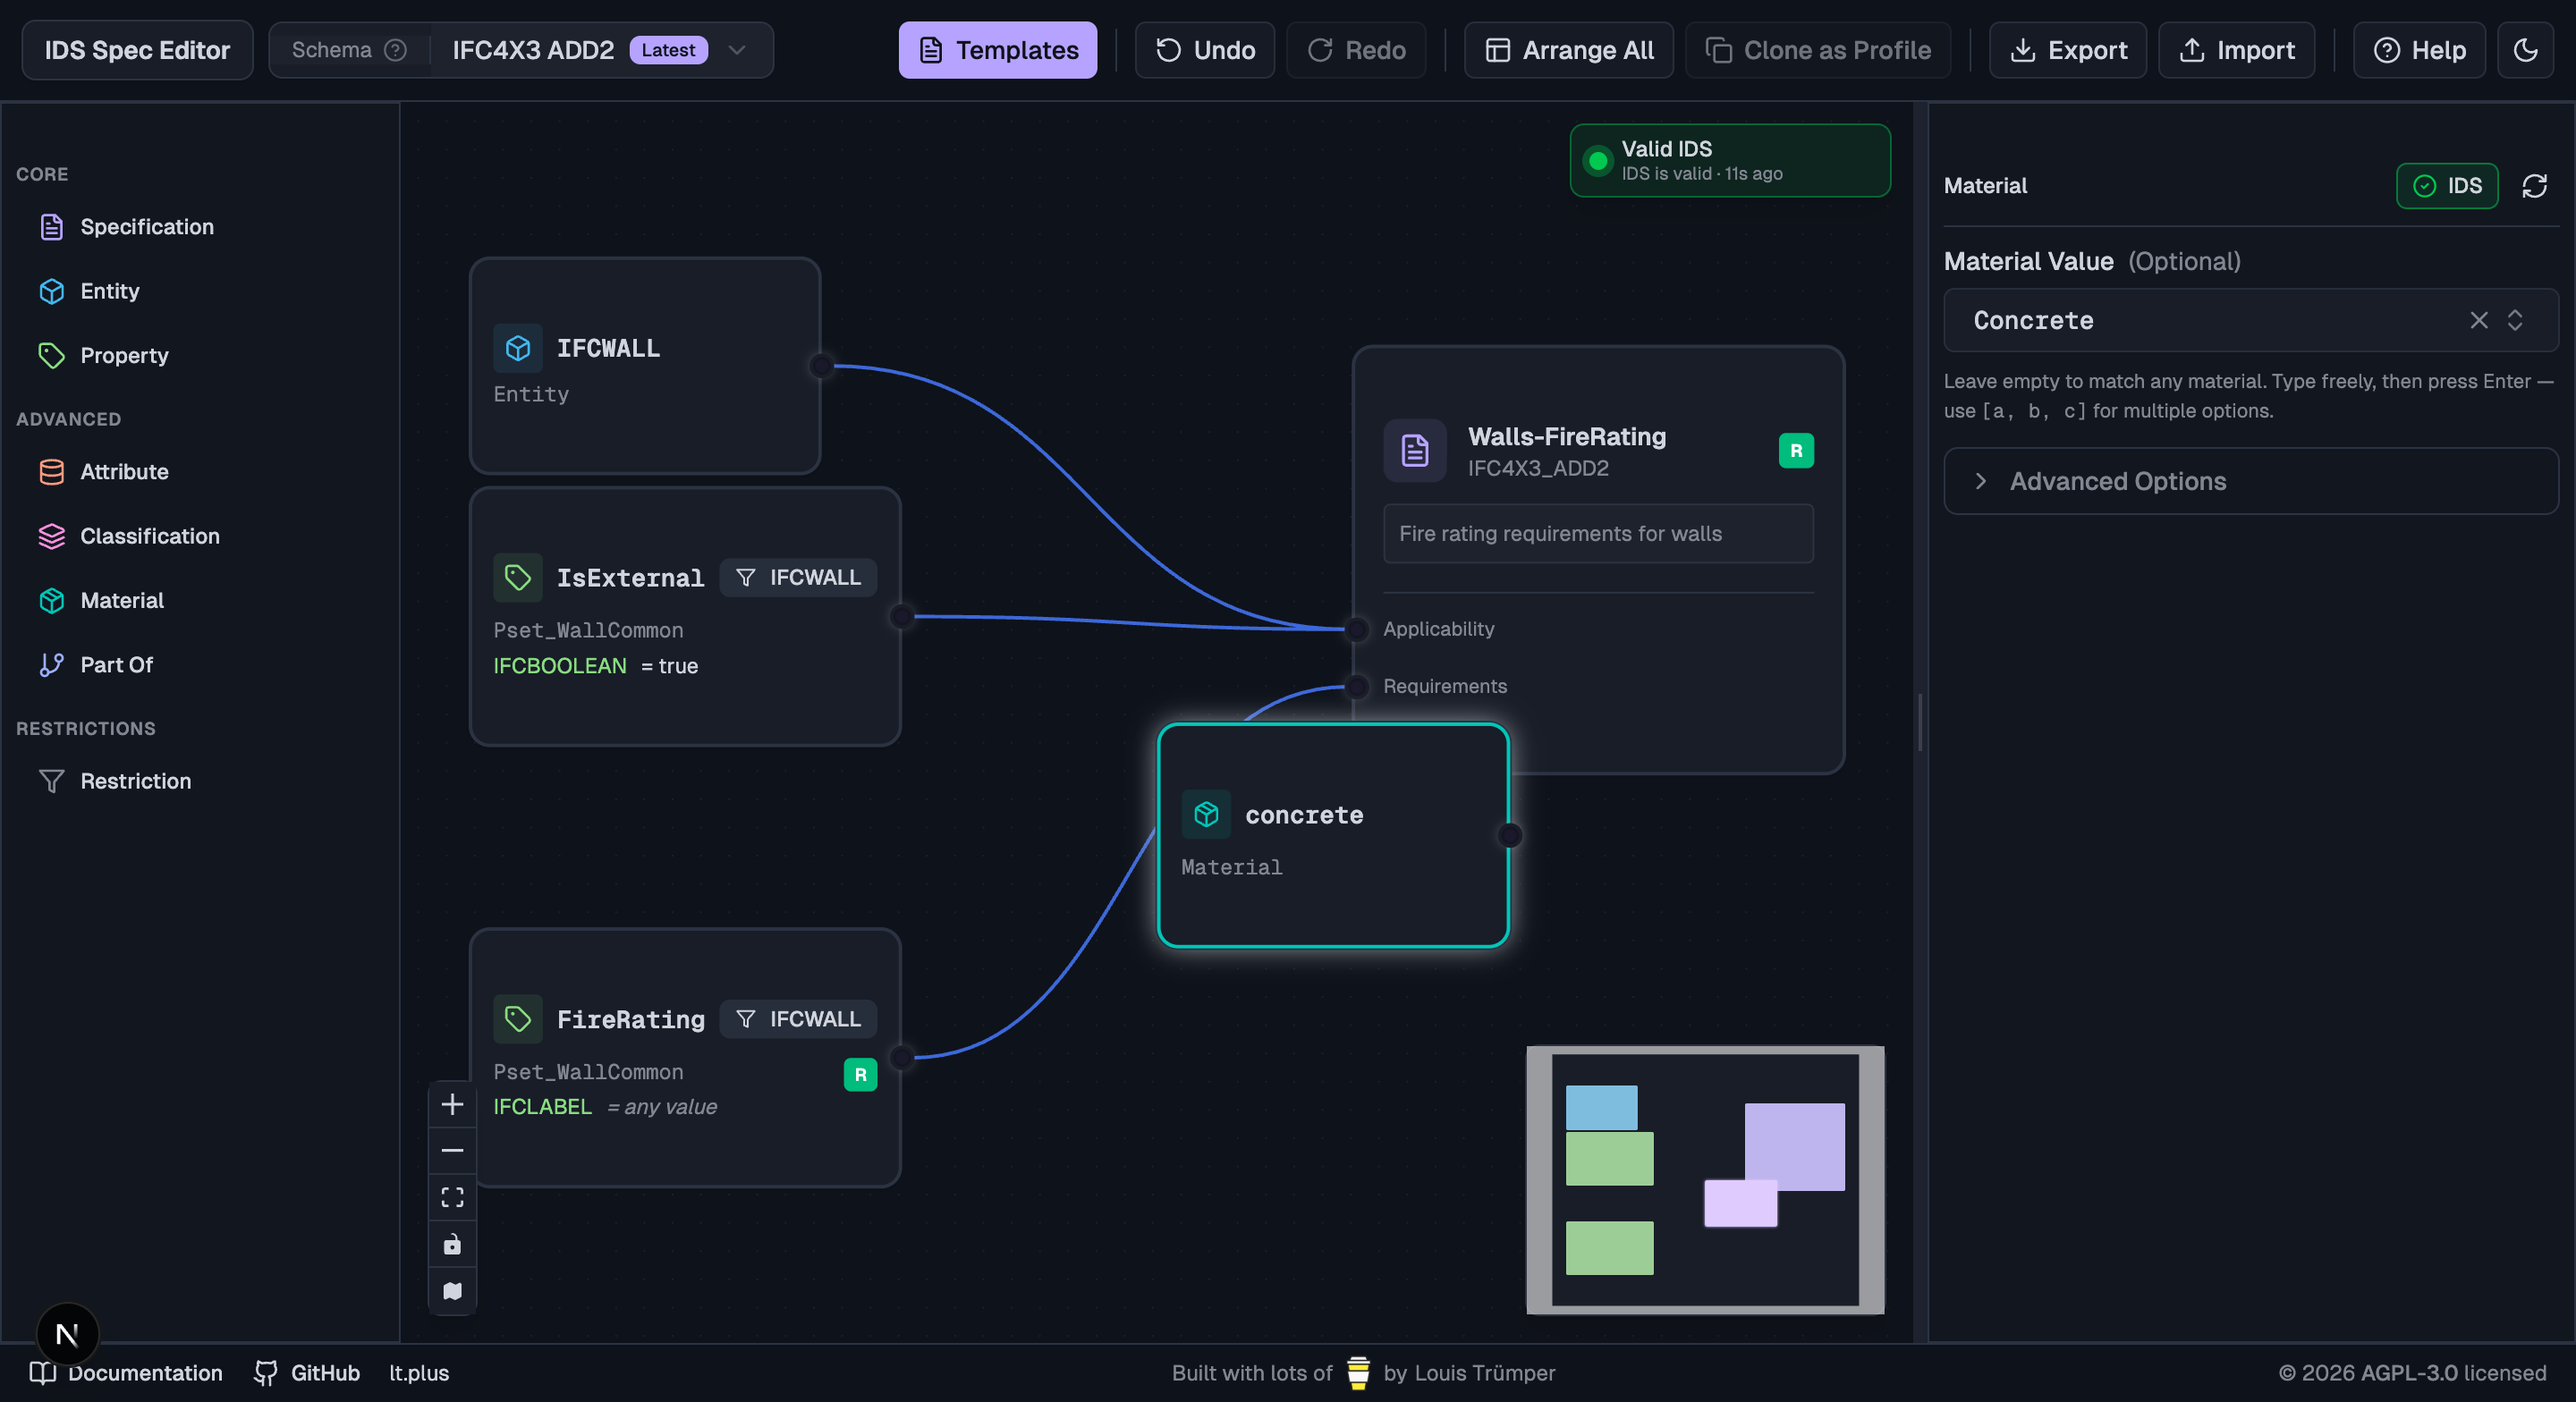
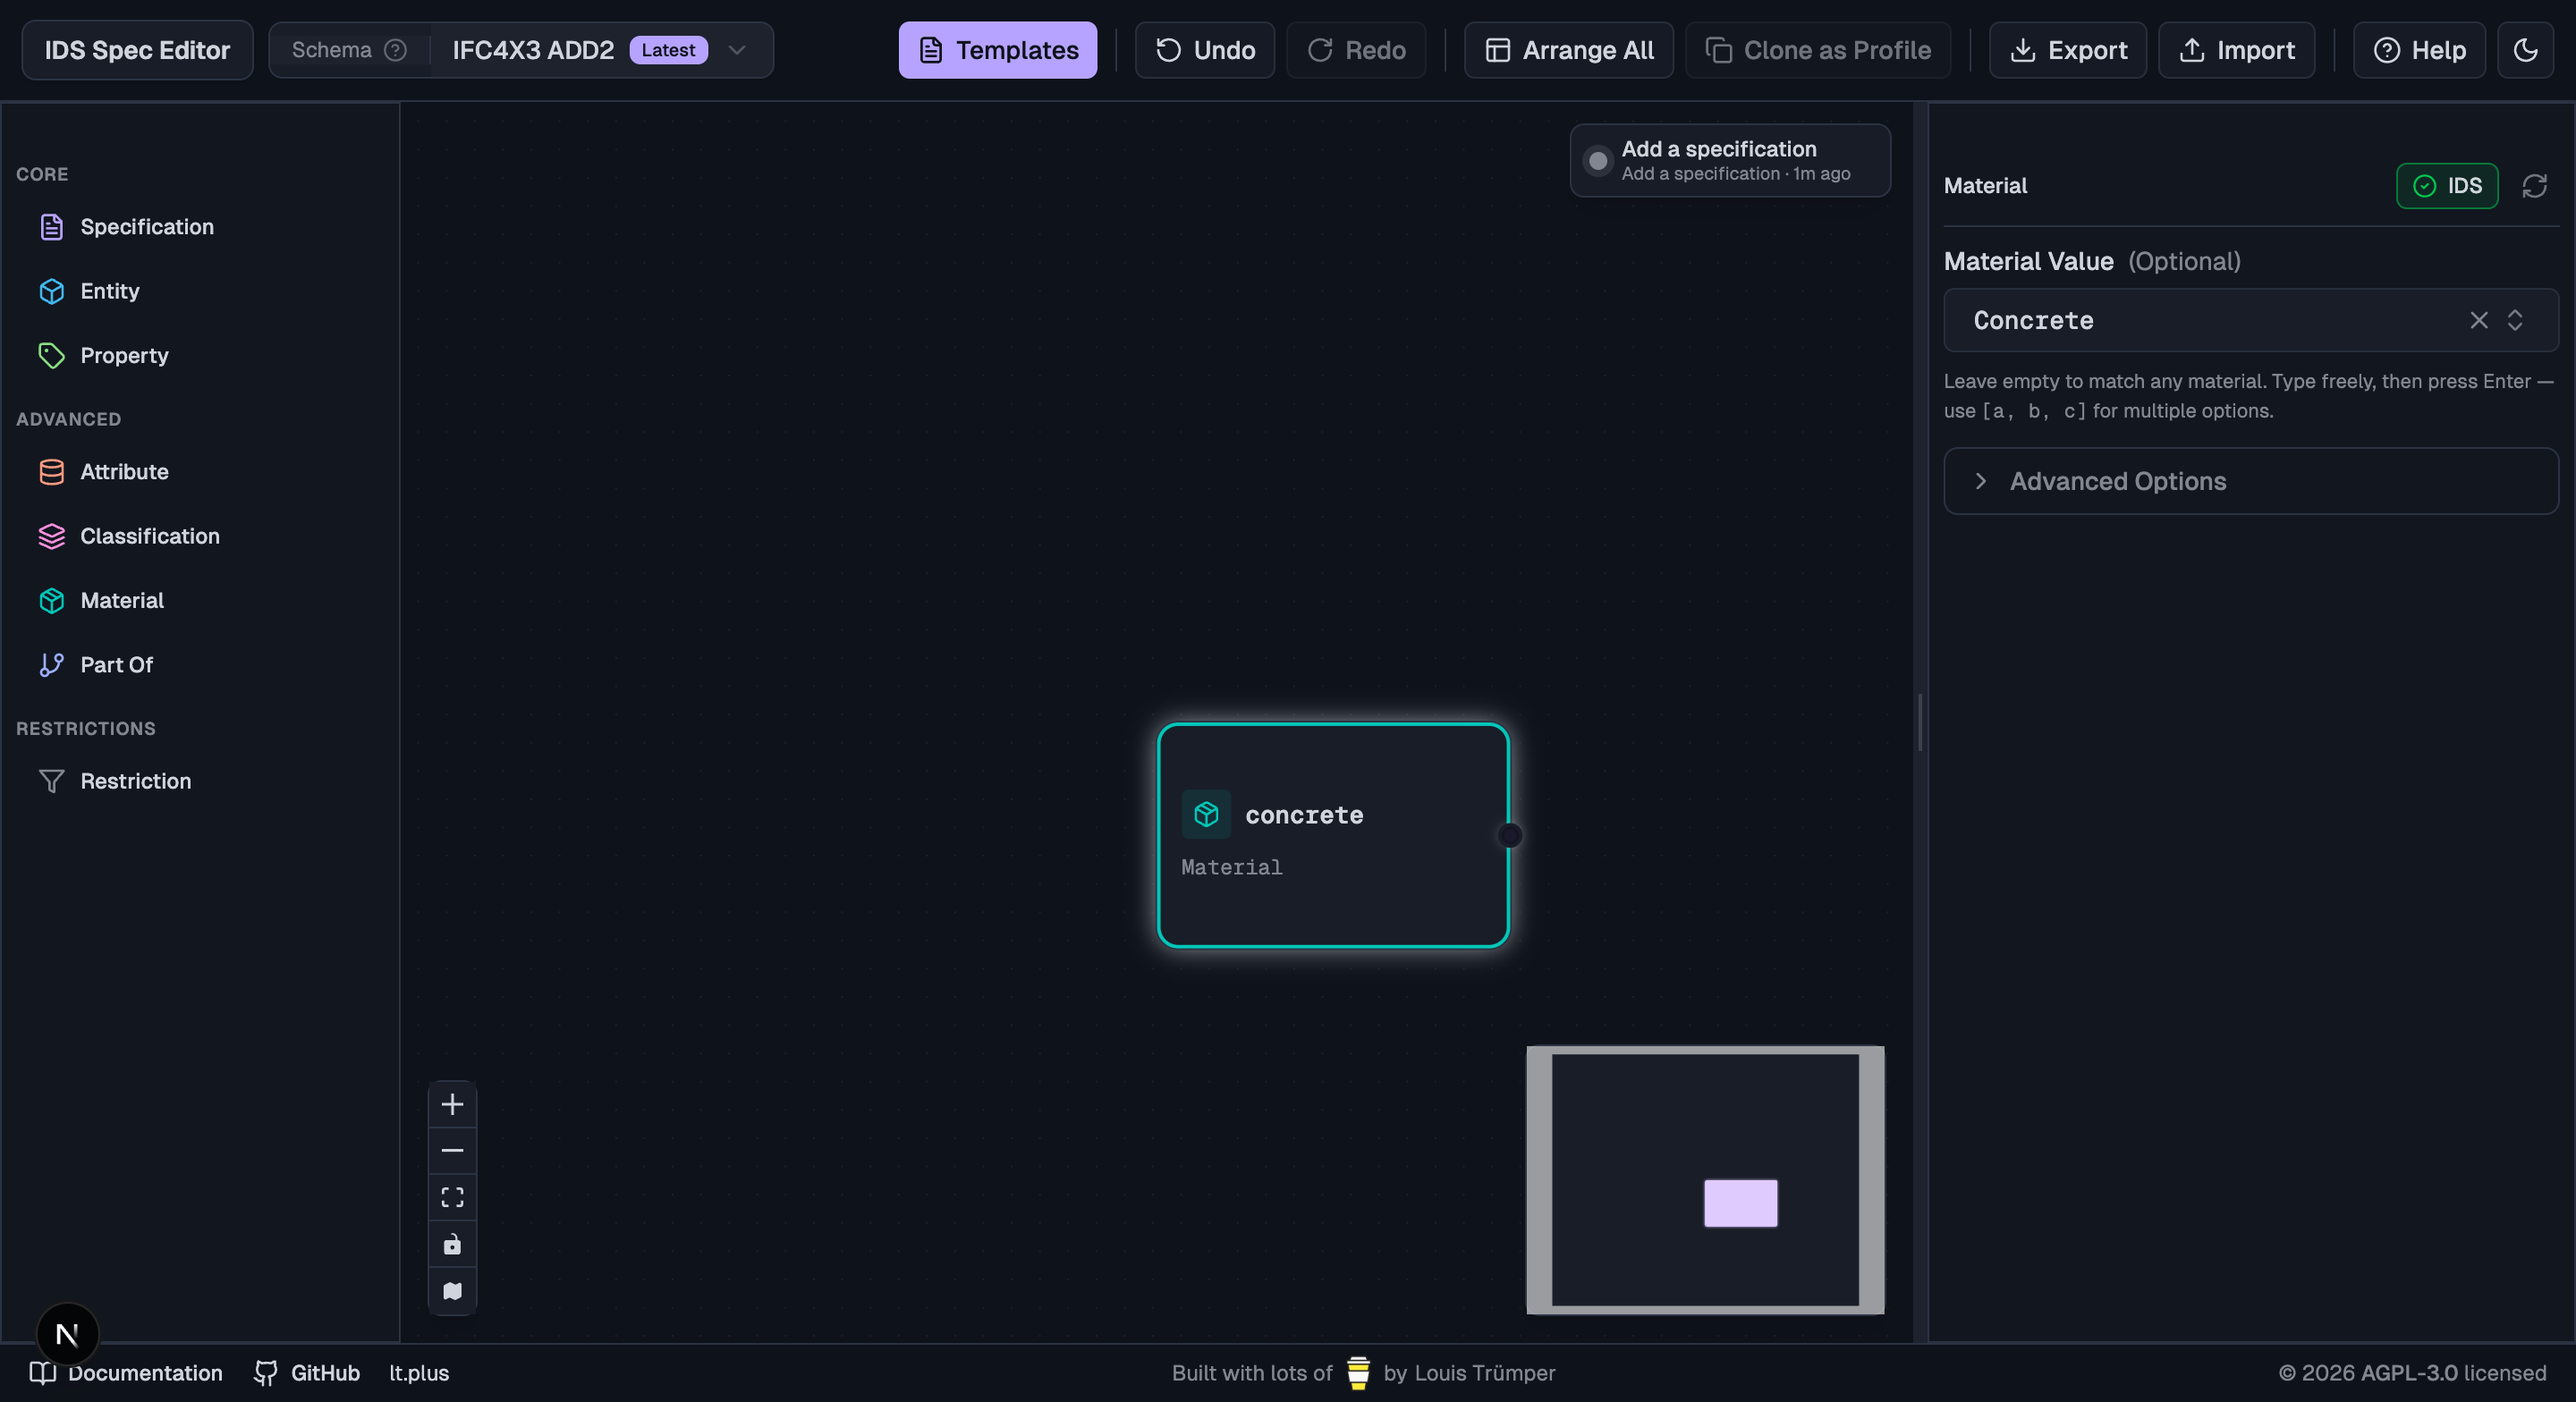
Refresh docs screenshots with isolated scenes; mention classification any-system
- Each "Any …" screenshot now shows only the relevant facet node(s)
  rather than the full default-canvas IFCWALL/IsExternal scene. The
  overview deliberately keeps one concrete-value Material alongside the
  three wildcard facets so the contrast is visible.
- Adds the classification system wildcard to match-any-value.md: clearing
  the system now means "any classification (any system)" and emits a
  pattern restriction (`.+`) on <system>. Adds a new classification
  inspector screenshot.

diff --git a/ids-docs/match-any-value.md b/ids-docs/match-any-value.md
@@ -1,33 +1,38 @@
-A lot of real IDS checks aren't "this property must equal *X*" — they're "this element must **have** this property at all, whatever the value." The IDS schema supports both: every value-bearing facet (`property`, `attribute`, `classification`, `material`) makes the `<value>` element **optional**, and an omitted `<value>` is a wildcard.
+A lot of real IDS checks aren't "this property must equal *X*" — they're "this element must **have** this property at all, whatever the value." The IDS schema supports both: every value-bearing facet (`property`, `attribute`, `classification`, `material`) makes the `<value>` element **optional**, and the classification's `<system>` element accepts a pattern restriction. An omitted or wildcarded value is a match-anything check.
 
-In the editor, this is just **leave the value field empty** — the canvas and inspector make the wildcard state obvious so you don't have to wonder whether the field is empty by accident.
+In the editor, this is just **leave the value field empty**. The canvas and inspector make the wildcard state obvious — italic *"Any …"* labels and a clear `×` affordance in the input — so you can tell wildcard from in-progress at a glance.
 
 ## The pattern, four ways
 
-The "Any" hint shows up across all four value-bearing facet nodes:
+Each value-bearing facet renders its empty-value state slightly differently — but always italicised and muted, with no concrete value present:
 
-![Material, classification, attribute, and property facets all showing the wildcard state on the canvas](/docs/screenshots/18-any-facets-overview.png)
+![Four facets on one canvas — three in their "Any" state, one Material showing a concrete "concrete" value for contrast](/docs/screenshots/18-any-facets-overview.png)
 
-| Facet | Empty-value display | Maps to IDS XML |
+| Facet | When the value is empty | Maps to IDS XML |
 |---|---|---|
-| **Material** | Node title is italic *"Any material"* | `<material/>` (no `<value>`) |
-| **Classification** | Below the system name: *"Any code"* | `<classification><system>…</system></classification>` |
-| **Attribute** | Below the attribute name: *"Any value"* | `<attribute><name>…</name></attribute>` |
-| **Property** | After the data type: *"= any value"* | `<property><propertySet>…</propertySet><baseName>…</baseName></property>` |
+| **Material** | Node title becomes italic *"Any material"* | `<material/>` (no `<value>`) |
+| **Classification** (value only) | *"Any code"* under the system name | `<classification><system>…</system></classification>` |
+| **Classification** (system + value) | Node title becomes italic *"Any classification"* | `<classification><system><xs:restriction base="xs:string"><xs:pattern value=".+"/></xs:restriction></system></classification>` |
+| **Attribute** | *"Any value"* under the attribute name | `<attribute><name>…</name></attribute>` |
+| **Property** | *"= any value"* after the data type | `<property><propertySet>…</propertySet><baseName>…</baseName></property>` |
 
-If a Restriction node is connected to the facet, the editor shows *"restricted"* instead of *"Any …"* — because the facet still constrains the value, just via the restriction node rather than a fixed value.
+If a Restriction node is connected to the facet, the editor shows *"restricted"* instead of *"Any …"* — the facet is still constrained, just via the restriction node rather than a fixed value.
 
 ## How to leave a value empty
 
-Three of the four facets use a plain text input — you just clear it. **Material** uses a searchable dropdown, so it has an explicit `×` clear button inside the trigger (and `Backspace` / `Delete` while the trigger is focused does the same thing):
+Property, attribute, and classification-code use plain text inputs — clear them with `Backspace`. **Material** and the **classification system** use a searchable dropdown, so they have an explicit `×` clear button inside the trigger (`Backspace` / `Delete` on the focused trigger does the same thing):
 
 ![Material inspector with the X clear button visible inside the value selector](/docs/screenshots/13-material-inspector-clearable.png)
 
-After clearing, the node header switches to italic *"Any material"* and the inspector's placeholder reads *"Any material (leave empty) — or pick / type a name"*:
+After clearing, the node title switches to italic *"Any material"* and the inspector's placeholder reads *"Any material (leave empty) — or pick / type a name"*:
 
 ![Material node titled "Any material" in italics after clearing](/docs/screenshots/14-material-node-any.png)
 
-The other three inspectors are the same pattern, no clear button needed:
+Classification works the same way: clear the system to mean "any classification (any system)". When emitted, the editor writes an XSD pattern restriction (`.+`) on `<system>` to make "any non-empty string" explicit — the IDS schema requires `<system>` to be present, so an empty simpleValue would semantically mean "match the empty string" rather than "any system".
+
+![Classification inspector — Classification System cleared, helper line: "Leave empty to match any classification (any system)"](/docs/screenshots/17c-classification-inspector-empty.png)
+
+Property and attribute use a plain text input — the helper line tells you the leave-empty trick:
 
 ![Property inspector — empty Value field with the "Leave empty to match any value" helper line](/docs/screenshots/15-property-inspector-empty.png)
 
@@ -35,6 +40,7 @@ The other three inspectors are the same pattern, no clear button needed:
 
 - **Applicability**: "applies to anything that has a material assigned" (regardless of which one). Useful when you care about *whether* the model carries a piece of information, not the specific value.
 - **Requirements**: combined with cardinality, you can express "this property must be present" (`cardinality="required"`) or "must not be present" (`cardinality="prohibited"`) without committing to a value.
+- **Classification with no system**: "every element in this applicability must have *some* classification — system doesn't matter, value doesn't matter." Useful for early-stage IDS that just checks the team did the classification work at all.
 
 ## When NOT to use it
 
